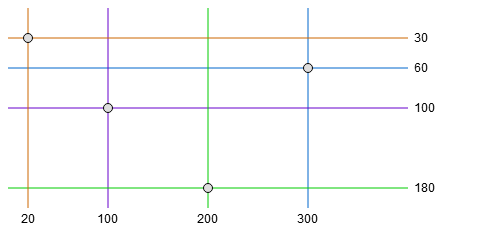
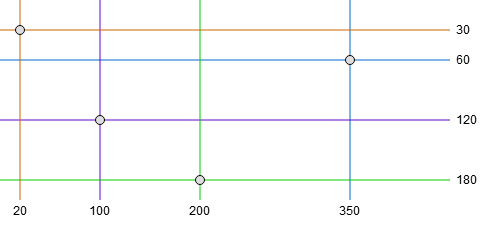
docs: standardise examples

Changed region(s): [[0.0, 0.0, 0.96, 0.896], [0.66, 0.812, 0.72, 0.868], [0.6, 0.84, 0.66, 0.896]]

diff --git a/examples/band.js b/examples/band.js
@@ -1,23 +1,43 @@
 var width = 500;
+var height = 250;
 
 var xScale = d3.scaleLinear()
-  .range([0, width - 100]);
+  .domain([0, 1])
+  .range([0, width - 50]);
 
-var line = fc.annotationBand()
+var yScale = d3.scaleLinear()
+  .domain([0, 1])
+  .range([0, height - 50]);
+
+var horizontalBand = fc.annotationBand()
   .xScale(xScale)
-  .fromValue(function(d, i) { return d - (i + 1) * 10; })
+  .yScale(yScale)
+  .fromValue(function(d, i) { return d - (i + 1) * 0.025; })
   .toValue(function(d) { return d; });
 
-var data = [20, 40, 80, 160];
+var verticalBand = fc.annotationBand()
+  .orient('vertical')
+  .xScale(xScale)
+  .yScale(yScale)
+  .fromValue(function(d, i) { return d - (i + 1) * 0.025; })
+  .toValue(function(d) { return d; });
+
+var data = [0.1, 0.2, 0.4, 0.8];
+var t0 = Date.now();
 
 function wavify(d, i, a) {
-    return d * Math.abs(Math.sin((i + 1) * Date.now() / 1e4 + i * Math.PI / a.length)) + 40;
+    var t = Date.now() - t0;
+    var value = d * Math.abs(Math.sin((i + 1) * t / 1e4 + i * Math.PI / a.length)) + 0.1;
+    return value.toFixed(3);
 }
 
 function render() {
-    d3.select('svg')
-        .datum(data.map(wavify))
-        .call(line);
+    var svg = d3.select('svg')
+      .datum(data.map(wavify));
+    svg.select('.horizontal')
+      .call(horizontalBand);
+    svg.select('.vertical')
+      .call(verticalBand);
     requestAnimationFrame(render);
 }
 

diff --git a/examples/line.js b/examples/line.js
@@ -1,21 +1,39 @@
 var width = 500;
+var height = 250;
 
 var xScale = d3.scaleLinear()
-  .range([0, width - 100]);
+  .domain([0, 1])
+  .range([0, width - 50]);
 
-var line = fc.annotationLine()
-  .xScale(xScale);
+var yScale = d3.scaleLinear()
+  .domain([0, 1])
+  .range([0, height - 50]);
 
-var data = [20, 40, 80, 160];
+var horizontalLine = fc.annotationLine()
+  .xScale(xScale)
+  .yScale(yScale);
+
+var verticalLine = fc.annotationLine()
+  .orient('vertical')
+  .xScale(xScale)
+  .yScale(yScale);
+
+var data = [0.1, 0.2, 0.4, 0.8];
+var t0 = Date.now();
 
 function wavify(d, i, a) {
-    return d * Math.abs(Math.sin((i + 1) * Date.now() / 1e4 + i * Math.PI / a.length)) + 40;
+    var t = Date.now() - t0;
+    var value = d * Math.abs(Math.sin((i + 1) * t / 1e4 + i * Math.PI / a.length)) + 0.1;
+    return value.toFixed(3);
 }
 
 function render() {
-    d3.select('svg')
-      .datum(data.map(wavify))
-      .call(line);
+    var svg = d3.select('svg')
+      .datum(data.map(wavify));
+    svg.select('.horizontal')
+      .call(horizontalLine);
+    svg.select('.vertical')
+      .call(verticalLine);
     requestAnimationFrame(render);
 }
 

diff --git a/examples/crosshair.js b/examples/crosshair.js
@@ -1,16 +1,19 @@
 var width = 500;
+var height = 250;
 
 var xScale = d3.scaleLinear()
-  .range([0, width - 100]);
+  .domain([0, 1])
+  .range([0, width - 50]);
 
 var yScale = d3.scaleLinear()
-  .range([0, 200]);
+  .domain([0, 1])
+  .range([0, height - 50]);
 
 var crosshair = fc.annotationCrosshair()
   .xScale(xScale)
   .yScale(yScale);
 
-var data = [{ x: 300, y: 60 }, { x: 100, y: 100 }, { x: 200, y: 180 }, { x: 20, y: 30 }];
+var data = [{ x: 350, y: 60 }, { x: 100, y: 120 }, { x: 200, y: 180 }, { x: 20, y: 30 }];
 
 function render() {
     d3.select('svg')

diff --git a/examples/line.html b/examples/line.html
@@ -2,6 +2,10 @@
 <html>
   <head>
     <style>
+      body {
+        margin: 0;
+      }
+
       g.annotation-line:nth-child(4n)>line {
         stroke: #c60;
       }
@@ -24,7 +28,10 @@
     </style>
   </html>
   <body>
-    <svg width="500" height="250"></svg>
+    <svg width="500" height="250">
+      <g class="horizontal"></g>
+      <g class="vertical"></g>
+    </svg>
 
     <script src="https://cdnjs.cloudflare.com/ajax/libs/babel-polyfill/6.13.0/polyfill.js"></script>
     <script src="../node_modules/d3-array/build/d3-array.js"></script>

diff --git a/examples/band.html b/examples/band.html
@@ -2,6 +2,10 @@
 <html>
   <head>
     <style>
+      body {
+        margin: 0;
+      }
+
       g.annotation-band>path {
         fill-opacity: 0.1;
       }
@@ -24,7 +28,10 @@
     </style>
   </html>
   <body>
-    <svg width="500" height="250"></svg>
+    <svg width="500" height="250">
+      <g class="horizontal"></g>
+      <g class="vertical"></g>
+    </svg>
 
     <script src="https://cdnjs.cloudflare.com/ajax/libs/babel-polyfill/6.13.0/polyfill.js"></script>
     <script src="../node_modules/d3-array/build/d3-array.js"></script>

diff --git a/examples/gridline.js b/examples/gridline.js
@@ -2,10 +2,12 @@ var width = 500;
 var height = 250;
 
 var xScale = d3.scaleLinear()
-  .range([10, width - 10]);
+  .domain([0, 1])
+  .range([0, width - 50]);
 
 var yScale = d3.scaleLinear()
-  .range([10, height - 10]);
+  .domain([0, 1])
+  .range([0, height - 50]);
 
 var gridline = fc.annotationGridline()
   .xScale(xScale)

diff --git a/examples/crosshair.html b/examples/crosshair.html
@@ -2,6 +2,10 @@
 <html>
   <head>
     <style>
+      body {
+        margin: 0;
+      }
+
       g.annotation-crosshair:nth-child(4n) g.annotation-line>line {
         stroke: #c60;
       }

diff --git a/examples/gridline.html b/examples/gridline.html
@@ -2,6 +2,10 @@
 <html>
   <head>
     <style>
+      body {
+        margin: 0;
+      }
+
       g.annotation-gridline>line:nth-child(4n) {
         stroke: #c60;
       }
